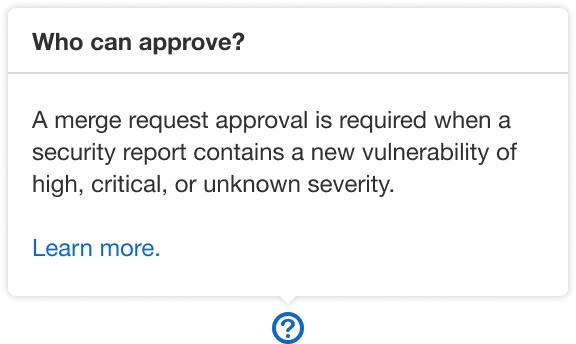
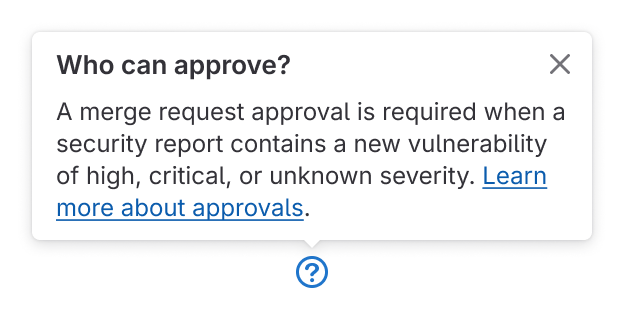
chore: Update help popover img

diff --git a/contents/usability/contextual-help.md b/contents/usability/contextual-help.md
@@ -63,7 +63,7 @@ If link text is not possible and space is tight, use the [help icon](http://gitl
 |                                                                                                                                                                                        Do                                                                                                                                                                                         |                                                                                                                                                             Don't                                                                                                                                                             |
 | :-------------------------------------------------------------------------------------------------------------------------------------------------------------------------------------------------------------------------------------------------------------------------------------------------------------------------------------------------------------------------------: | :---------------------------------------------------------------------------------------------------------------------------------------------------------------------------------------------------------------------------------------------------------------------------------------------------------------------------: |
 |                                                                                   <div class="app-styles"><gl-icon name="question-o" class="gl-text-blue-600" /></div>Use the outlined [question-o.svg](http://gitlab-org.gitlab.io/gitlab-svgs/?q=~question-o) icon in `$blue-600` (`#1068bf`)                                                                                   |                                                                     <div class="app-styles"><gl-icon name="question" size="16" /></div>Use the solid icon [question.svg](http://gitlab-org.gitlab.io/gitlab-svgs/?q=~question) or a color other than blue                                                                     |
-| <figure-img alt="Popover with link to documentation" label="Show information in the popover with a link to documentation" src="/img/help-popover-with-link.png"  width="280"></figure-img> | <figure-img alt="Popover with link to documentation" label="Use the icon as a link or with a tooltip" src="/img/help-tooltip.png" alt="Popover with link to documentation" width="280"></figure-img> |
+| <figure-img alt="Popover with link to documentation" label="Show information in the popover with a link to documentation" src="/img/help-popover-with-link.png"  width="312"></figure-img> | <figure-img alt="Popover with link to documentation" label="Use the icon as a link or with a tooltip" src="/img/help-tooltip.png" alt="Popover with link to documentation" width="280"></figure-img> |
 
 ### Info icon
 
